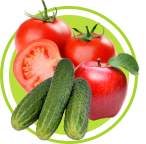
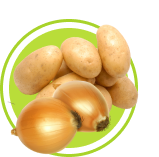
c

diff --git a/garden/ru/index.html b/garden/ru/index.html
@@ -111,23 +111,23 @@
 					<p>Виды корневых клубней и стволовых клубней (лук, редис, сугарбит, картофель)</p>
 				</div>
 				<div class="sect3__item">
-					<img src="img/im1.png" alt="">
+					<img src="img/im2.png" alt="">
 					<p>Листовые овощи (китайская капуста, сельдерей, шпинат, капуста)</p>
 				</div>
 				<div class="sect3__item">
-					<img src="img/im1.png" alt="">
-					<p>Фрукты и овощи (помидор, перец, артерон, эппли, личи, виноград и т. Д.)</p>
+					<img src="img/im3.png" alt="">
+					<p>Фрукты и овощи (помидор, перец, артерон, эппли, личи, виноград и т.д.)</p>
 				</div>
 				<div class="sect3__item">
-					<img src="img/im1.png" alt="">
-					<p>Leguminose (соевые, французские бобы,)</p>
+					<img style="width: 1.6rem;" src="img/im4.png" alt="">
+					<p>Leguminose (соевые, французские бобы)</p>
 				</div>
 				<div class="sect3__item">
-					<img src="img/im1.png" alt="">
-					<p>Пшеница, Падди, кукуруза и т. д.</p>
+					<img style="width: 1.3rem;" src="img/im5.png" alt="">
+					<p>Пшеница, Падди, <br> кукуруза и т. д.</p>
 				</div>
 				<div class="sect3__item">
-					<img src="img/im1.png" alt="">
+					<img style="width: 1.3rem;" src="img/im6.png" alt="">
 					<p>Декоративные (цветы и т. д.)</p>
 				</div>
 			</div>

diff --git a/insert_stop/ru/index.html b/insert_stop/ru/index.html
@@ -3,7 +3,7 @@
 
 <head>
 	<meta charset="utf-8">
-	<title>ЧУДО ГРЯДКА</title>
+	<title>Insect Stop</title>
 	<meta property="og:image" content="path/to/image.jpg">
 	<meta name="viewport" content="width=device-width, initial-scale=1.0">
 	<link rel="icon" href="img/favicon/favicon.ico">
